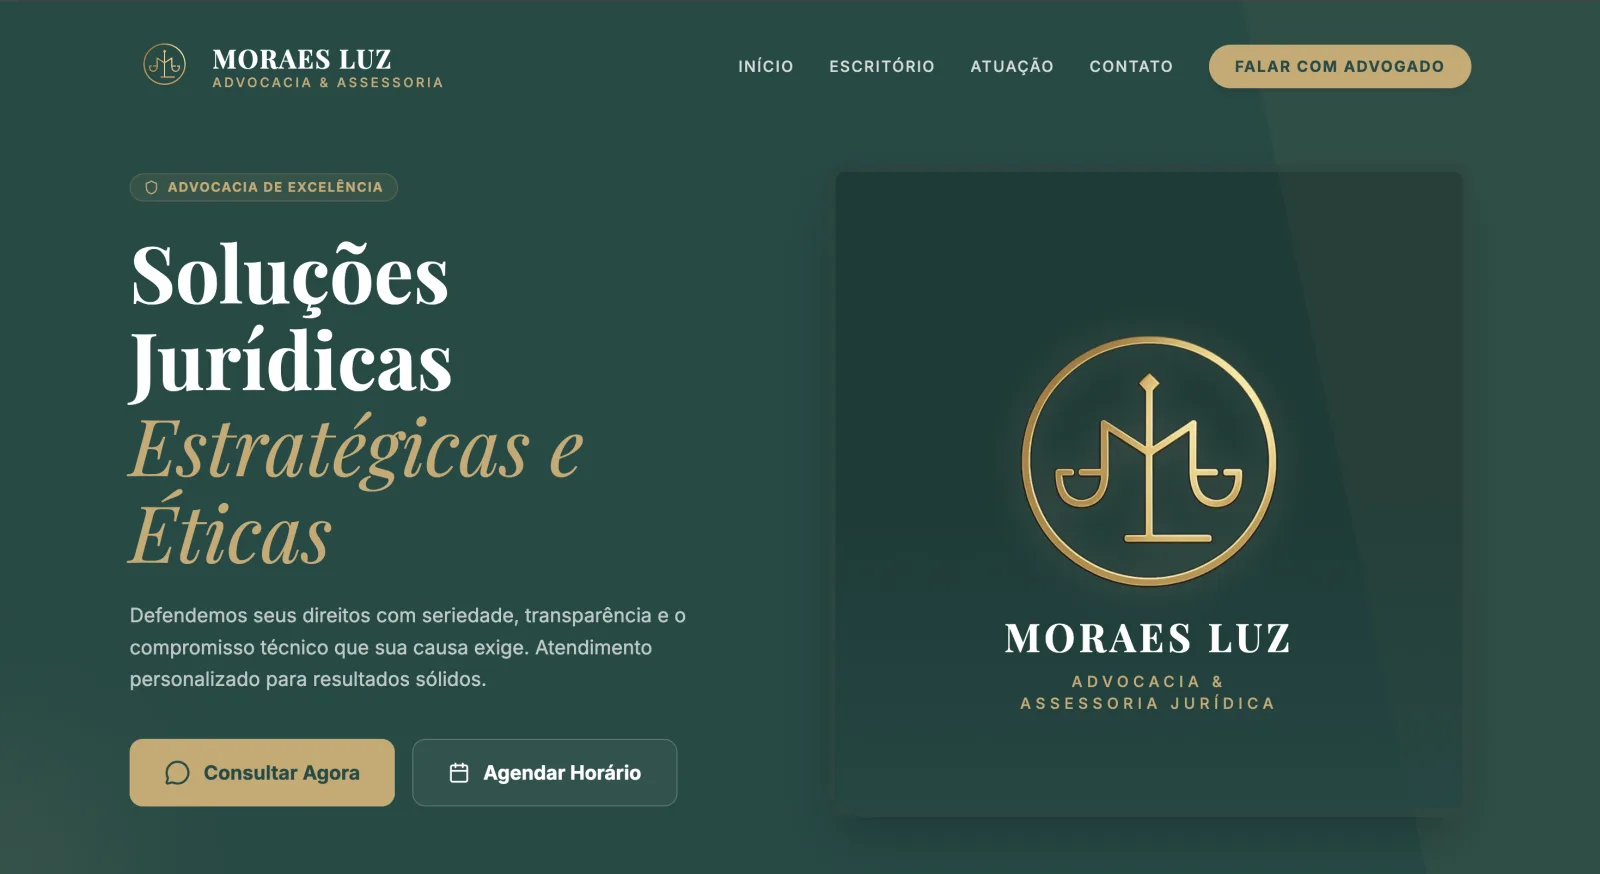
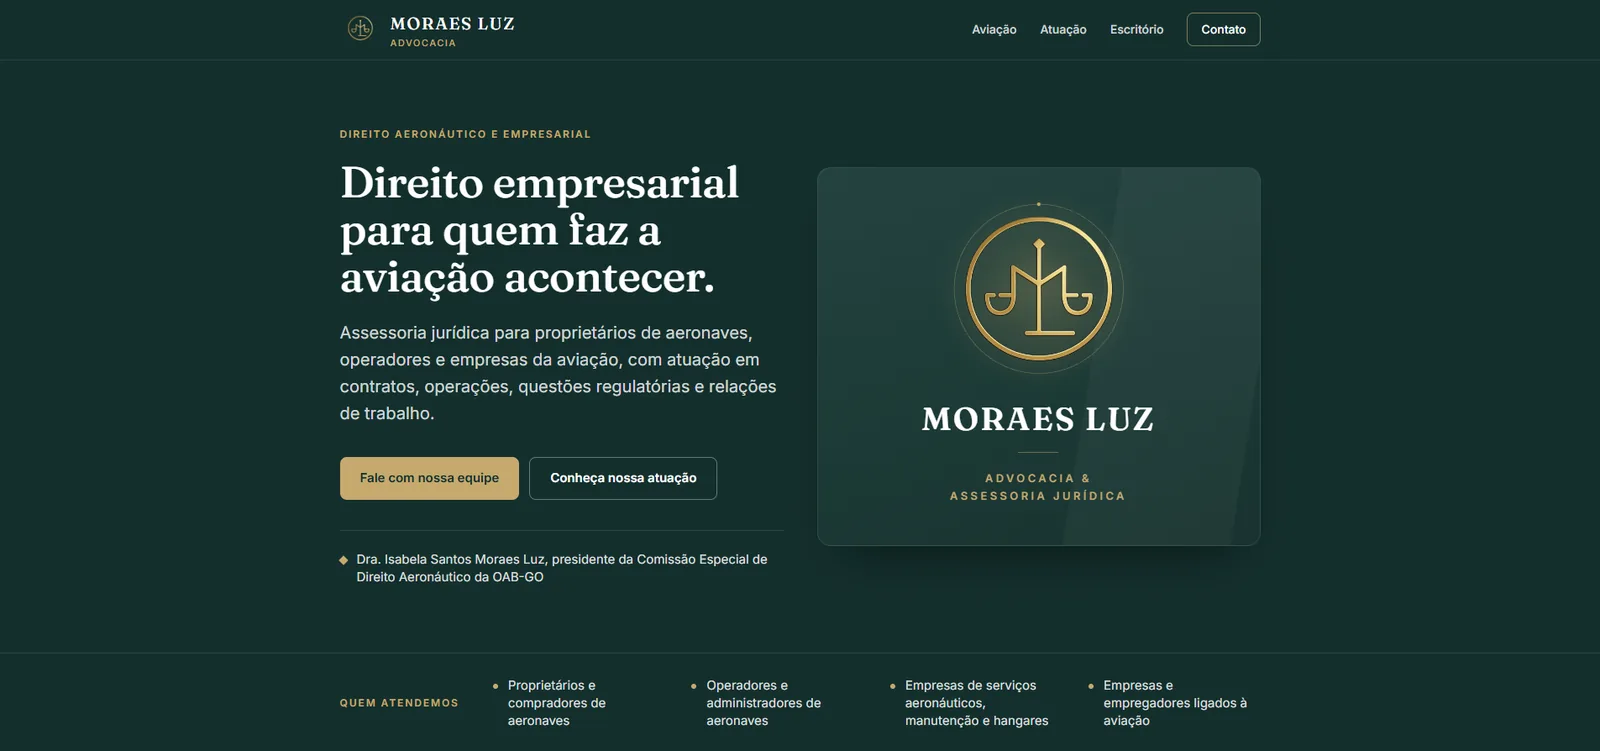
Atualiza print principal e segmento do card Moraes Luz Advocacia
Claude-Session: https://claude.ai/code/session_019VEZbqZNytNwsYygcmkV4n

diff --git a/index.html b/index.html
@@ -146,9 +146,9 @@
       </article>
       <article class="obra-card">
         <a class="obra-shot" href="https://moraesluzadv.com/" target="_blank" rel="noopener" tabindex="-1" aria-hidden="true">
-          <img src="public/projetos/moraesluz-1.webp" alt="Página inicial da Moraes Luz Advocacia, com o símbolo da balança em dourado" width="1600" height="874" loading="lazy" decoding="async">
+          <img src="public/projetos/moraesluz-1.webp" alt="Página inicial da Moraes Luz Advocacia em verde escuro, com o título Direito empresarial para quem faz a aviação acontecer e o emblema dourado da balança" width="1600" height="751" loading="lazy" decoding="async">
         </a>
-        <p class="obra-cat">Advocacia · Goiânia, GO</p>
+        <p class="obra-cat">Advocacia · Direito aeronáutico e empresarial</p>
         <h3 class="obra-nome">Moraes Luz Advocacia</h3>
         <dl class="obra-fatos">
           <div><dt>Objetivo</dt><dd>Uma presença institucional clara: quem é o escritório, onde atua e como falar com um advogado.</dd></div>
